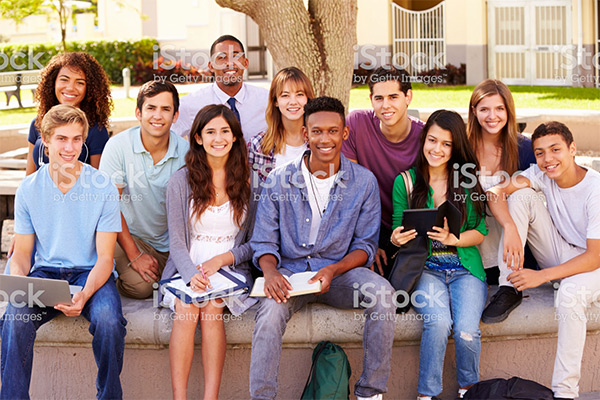
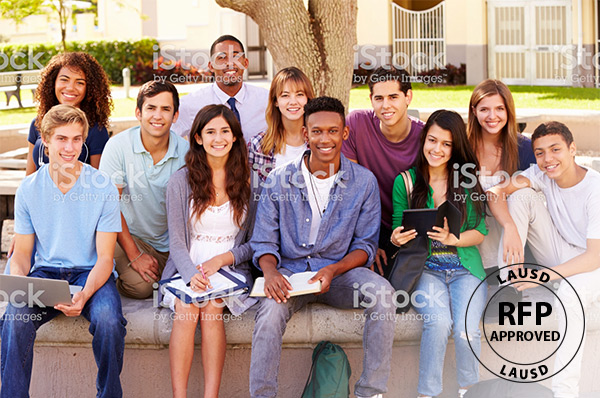
Add email 2

diff --git a/email2.html b/email2.html
@@ -1,0 +1,150 @@
+
+<!DOCTYPE html PUBLIC "-//W3C//DTD XHTML 1.0 Transitional//EN""http://www.w3.org/TR/xhtml1/DTD/xhtml1-transitional.dtd">
+
+<html xmlns="http://www.w3.org/1999/xhtml" lang="en" xml:lang="en">
+<head>
+	<link rel="stylesheet" type="text/css" href="css/app.css">
+	<meta http-equiv="Content-Type" content="text/html; charset=utf-8">
+	<meta name="viewport" content="width=device-width">
+	<meta name="format-detection" content="telephone=no">
+	<meta name="format-detection" content="date=no">
+	<meta name="format-detection" content="address=no">
+    <meta name="format-detection" content="email=no">
+    <link href="https://fonts.googleapis.com/css?family=Open+Sans:300,300i,400,400i,700" rel="stylesheet">
+	<title>Evidence-Based Support for LAUSD</title>
+	<!-- <style> -->
+</head>
+<body>
+<span class="invisible-previewline">Improve student outcomes with approved solutions.</span>
+<table class="body">
+	<tr>
+		<td class="center" align="center" valign="top">
+			<center data-parsed="">
+				 <table class="spacer float-center"><tbody><tr><td height="10px" style="font-size:10px;line-height:10px;">&#xA0;</td></tr></tbody></table> 
+<p class="view-online float-center" pardot-region="view-online" align="center">View this message <a href="%%view_online%%" target="_blank">online</a>.</p>
+<table align="center" class="container float-center"><tbody><tr><td>
+    <table class="row"><tbody><tr>
+        <th class="dark-blue-bg no-bottom-padding small-12 large-12 columns first last"><table><tr><th>
+            <table class="spacer"><tbody><tr><td height="20px" style="font-size:20px;line-height:20px;">&#xA0;</td></tr></tbody></table> 
+        </th>
+<th class="expander"></th></tr></table></th>
+    </tr></tbody></table>
+    <table class="row"><tbody><tr>
+        <th class="no-bottom-padding light-gray-bg small-12 large-12 columns first last"><table><tr><th>
+            <table class="spacer"><tbody><tr><td height="16px" style="font-size:16px;line-height:16px;">&#xA0;</td></tr></tbody></table> 
+            <a href="https://www.voyagersopris.com?utm_source=news&amp;utm_medium=email&amp;utm_campaign=2019_Q2_West_LAUSD_RFP" target="_blank" title="https://www.voyagersopris.com"><img src="http://go.voyagersopris.com/l/207592/2017-10-20/6ff1y/207592/36096/vsp_logo_blue_email__2x.png" height="40" width="215"></a>
+        </th>
+<th class="expander"></th></tr></table></th>
+    </tr></tbody></table>
+    <table class="row"><tbody><tr>
+        <th class="light-gray-bg no-bottom-padding small-12 large-12 columns first last" pardot-region="copy2"><table><tr><th>
+            <h1>We Have the Approved, <br class="hide-hardbreak">Evidence-Based Solutions You Need</h1>
+        </th>
+<th class="expander"></th></tr></table></th>
+    </tr></tbody></table>
+    <table class="row collapse"><tbody><tr>
+        <th class="no-bottom-padding small-12 large-12 columns first last" pardot-region="copy"><table><tr><th>
+            <img src="assets/img/lausd-email2-hdr.jpg" alt="" width="600">
+        </th>
+<th class="expander"></th></tr></table></th>
+    </tr></tbody></table>
+    <table class="row"><tbody><tr>
+        <th class="dark-dark-purple-bg no-bottom-padding small-12 large-12 columns first last" pardot-region="copy4"><table><tr><th>
+            <table class="spacer"><tbody><tr><td height="16px" style="font-size:16px;line-height:16px;">&#xA0;</td></tr></tbody></table> 
+            <p>Structured literacy is the approach endorsed by the International Dyslexia Association’s Board of
+                Directors. It encompasses instruction that conforms to IDA’s Knowledge and Practice Standards for
+                Teachers of Reading.</p>
+        </th>
+<th class="expander"></th></tr></table></th>
+    </tr></tbody></table>
+    <table class="row collapse"><tbody><tr>
+        <th class="no-bottom-padding small-12 large-12 columns first last" pardot-region="img"><table><tr><th>
+            <img src="https://go.voyagersopris.com/l/207592/2019-01-24/8b2td/207592/87661/pointer_dark_purple.png" alt="">
+        </th></tr></table></th>
+    </tr></tbody></table>
+    <table class="row"><tbody><tr>
+        <th class="small-12 large-12 columns first last" pardot-region="copy5"><table><tr><th>
+            <p>Dear %%first_name%%,</p>
+            <p>Voyager Sopris Learning<sup>&reg;</sup> is honored to be named a provider of literacy, math, and professional development solutions for Los Angeles Unified School District through the recent Evidence-Based Interventions for State-Identified Schools RFP. I look forward to working with you and your school community to ensure your teachers and students receive the support necessary to increase student achievement.</p>
+            <p>Our evidence-based literacy and professional development solutions focus on improving student trajectories and enhancing teacher performance.</p>
+        </th>
+<th class="expander"></th></tr></table></th>
+    </tr></tbody></table>
+    <table class="row"><tbody><tr>
+        <th class="small-12 large-6 columns first" pardot-region="copy"><table><tr><th>
+            <center data-parsed=""><table class="button radius expanded float-center"><tr><td><table><tr><td><center data-parsed=""><a href="https://www.voyagersopris.com/literacy/voyager-passport/overview?utm_source=news&amp;utm_medium=email&amp;utm_campaign=2019_Q2_West_LAUSD_RFP" align="center" class="float-center"><em>Voyager Passport</em><sup>&reg;</sup></a></center></td></tr></table></td>
+<td class="expander"></td></tr></table><table class="spacer float-center"><tbody><tr><td height="10px" style="font-size:10px;line-height:10px;">&#xA0;</td></tr></tbody></table> <p class="description float-center" align="center">
+                        Blended-literacy<br class="hide-hardbreak">solution<br class="hide-hardbreak">(4–12)
+                    </p></center>
+        </th></tr></table></th>
+        <th class="small-12 large-6 columns last" pardot-region="copy"><table><tr><th>
+            <center data-parsed=""><table class="button radius expanded secondary float-center"><tr><td><table><tr><td><center data-parsed=""><a href="https://www.voyagersopris.com/professional-development/letrs/overview?utm_source=news&amp;utm_medium=email&amp;utm_campaign=2019_Q2_West_LAUSD_RFP" align="center" class="float-center"><em>LETRS</em><sup>&reg;</sup></a></center></td></tr></table></td>
+<td class="expander"></td></tr></table><table class="spacer float-center"><tbody><tr><td height="10px" style="font-size:10px;line-height:10px;">&#xA0;</td></tr></tbody></table> <p class="description float-center" align="center">
+                        Professional<br class="hide-hardbreak">development<br class="hide-hardbreak">(K–12)
+                    </p></center>
+        </th></tr></table></th>
+    </tr></tbody></table>
+    <table class="row"><tbody><tr>
+        <th class="small-12 large-12 columns first last"><table><tr><th>
+            <p>I will be in your area soon and look forward to partnering with you to create a plan for school-wide success. Please contact me to schedule a time to meet.</p>
+        </th>
+<th class="expander"></th></tr></table></th>
+    </tr></tbody></table>
+    <table pardot-repeatable="" class="row signature"><tbody><tr>
+            <th class="small-12 large-2 columns first" pardot-region="rep_photo"><table><tr><th>
+                <img class="small-float-center" src="http://go.voyagersopris.com/l/207592/2018-08-23/7f86z/207592/64083/lou_gonzalez_2018.jpg" alt="Lou Gonzalez" width="120" height="120">
+            </th></tr></table></th>
+            <th class="small-12 large-10 columns last" pardot-region="rep_signature"><table><tr><th>
+                <p class="small-text-center"><strong>Lou Gonzalez</strong><br>
+                    <em>Sales Executive &mdash; Central, West&amp;South Texas</em><br>
+                    <a href="mailto:lou.gonzalez@voyagersopris.com">Lou.Gonzalez@voyagersopris.com</a><br>
+                    C: <a href="tel:15597768183">559.776.8183</a>
+                </p>
+            </th></tr></table></th>
+        </tr></tbody></table>
+    <table class="spacer"><tbody><tr><td height="5px" style="font-size:5px;line-height:5px;">&#xA0;</td></tr></tbody></table> 
+    <table dir="rtl" class="row footer"><tbody><tr>
+        <th class="small-12 large-6 columns first" valign="middle"><table><tr><th>
+            <table class="spacer"><tbody><tr><td height="16px" style="font-size:16px;line-height:16px;">&#xA0;</td></tr></tbody></table> 
+            <a href="https://www.voyagersopris.com?utm_source=news&amp;utm_medium=email&amp;utm_campaign=2019_Q2_West_LAUSD_RFP" target="_blank" title="https://www.voyagersopris.com?utm_source=news&amp;utm_medium=email&amp;utm_campaign=2019_Q2_West_LAUSD_RFP"><img src="http://go.voyagersopris.com/l/207592/2017-09-08/69hvv/207592/33471/vsp_logo_white_email__2x.png" height="40" width="215" class="vsl-logo float-right small-float-center" align="right"></a>
+            <table class="spacer"><tbody><tr><td height="16px" style="font-size:16px;line-height:16px;">&#xA0;</td></tr></tbody></table> 
+        </th></tr></table></th>
+        <th class="address-cell small-12 large-6 columns last" dir="ltr" pardot-region="footer"><table><tr><th>
+            <table class="spacer"><tbody><tr><td height="16px" style="font-size:16px;line-height:16px;">&#xA0;</td></tr></tbody></table> 
+            <p>&copy; 2019 Voyager Sopris Learning.<br> All Rights Reserved.<br> 17855 Dallas
+                Parkway, Dallas, TX 75287<br>
+                <a href="https://www.voyagersopris.com?utm_source=news&amp;utm_medium=email&amp;utm_campaign=2019_Q2_West_LAUSD_RFP" target="_blank">voyagersopris.com</a> / <a href="tel:18005476747" target="_blank" title="Call Voyager Sopris Learning">800.547.6747</a>
+            </p>
+        </th></tr></table></th>
+    </tr></tbody></table>
+    <table class="row"><tbody><tr>
+        <th class="social-media small-12 large-12 columns first last"><table><tr><th>
+            <table class="spacer"><tbody><tr><td height="10px" style="font-size:10px;line-height:10px;">&#xA0;</td></tr></tbody></table> 
+            <center data-parsed="">
+                <a href="https://www.facebook.com/VoyagerSopris/" target="_blank" align="center" class="float-center"><img src="http://go.voyagersopris.com/l/207592/2017-09-13/69ty8/207592/33729/facebook.png" alt="facebook" width="32" height="32"></a>
+                <a href="https://twitter.com/VoyagerSopris" target="_blank" align="center" class="float-center"><img src="http://go.voyagersopris.com/l/207592/2017-09-13/69tyb/207592/33731/twitter.png" alt="twitter" width="32" height="32"></a>
+                <a href="https://www.linkedin.com/company/voyager-sopris-learning" target="_blank" align="center" class="float-center"><img src="http://go.voyagersopris.com/l/207592/2017-09-13/69ty6/207592/33727/linkedin.png" alt="linkedin" width="32" height="32"></a>
+            </center>
+        </th>
+<th class="expander"></th></tr></table></th>
+    </tr></tbody></table>
+    <table class="row unsubscribe"><tbody><tr>
+        <th class="small-12 large-12 columns first last" pardot-region="subscription"><table><tr><th>
+            <p class="text-center"> You received this email because you are subscribed to emails from Voyager Sopris
+                Learning. <br>If you prefer not to receive emails from Voyager Sopris Learning you may
+                <a href="%%unsubscribe%%">unsubscribe</a> or <a href="%%email_preference_center%%">update</a>
+                subscription preferences.</p>
+        </th>
+<th class="expander"></th></tr></table></th>
+    </tr></tbody></table>
+</td></tr></tbody></table>
+
+			</center>
+		</td>
+	</tr>
+</table>
+<!-- prevent Gmail on iOS font size manipulation -->
+<div style="display:none; white-space:nowrap; font:15px courier; line-height:0;"> &nbsp; &nbsp; &nbsp; &nbsp; &nbsp; &nbsp; &nbsp; &nbsp; &nbsp; &nbsp; &nbsp; &nbsp; &nbsp; &nbsp; &nbsp; &nbsp; &nbsp; &nbsp; &nbsp; &nbsp; &nbsp; &nbsp; &nbsp; &nbsp; &nbsp; &nbsp; &nbsp; &nbsp; &nbsp; &nbsp;</div>
+</body>
+</html>
+
